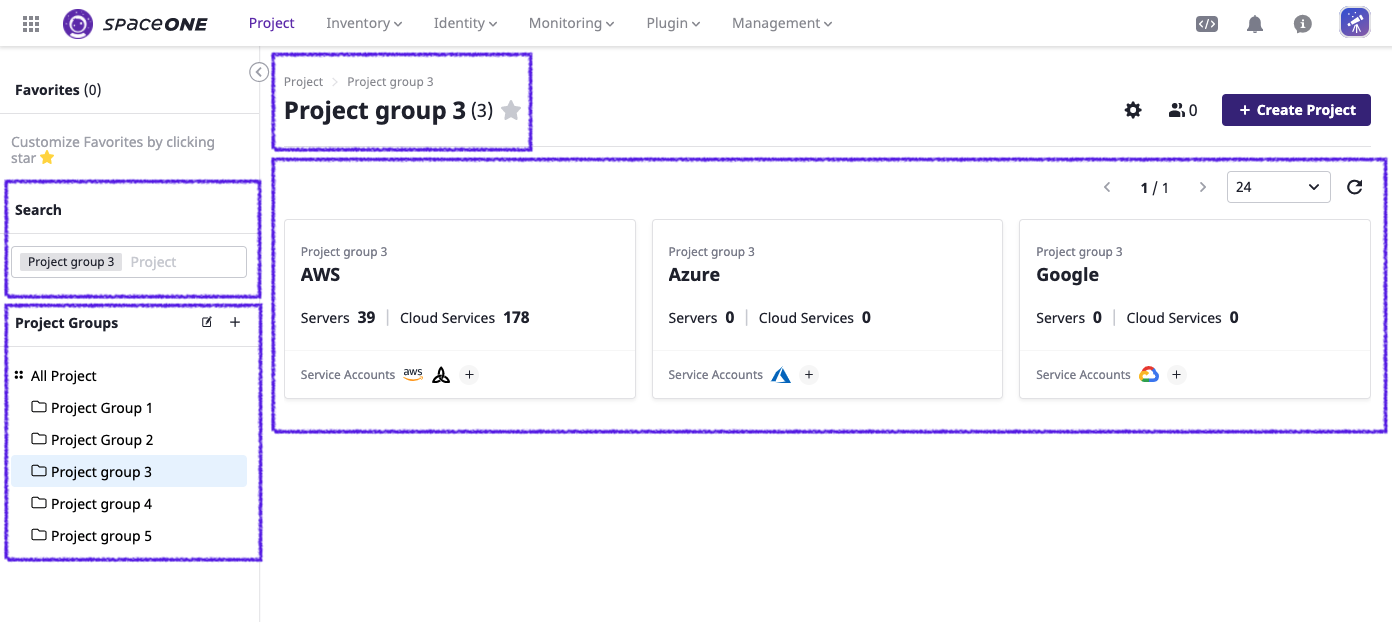
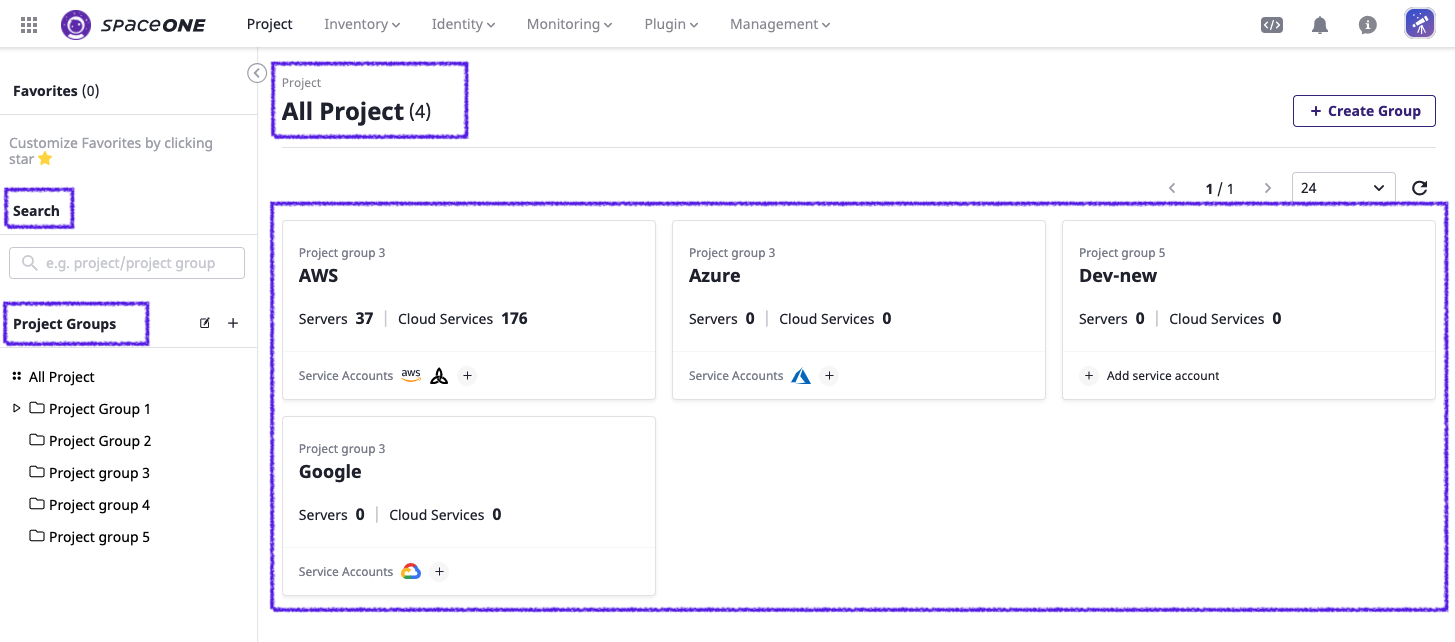
UserGuide_Project

diff --git a/content/en/docs/using_spaceone_console/user_guide/project/project_group_management.md b/content/en/docs/using_spaceone_console/user_guide/project/project_group_management.md
@@ -12,24 +12,26 @@ description: >
 
 ## Overview  
 
-You can manage **`Project groups`** and **`Projects`** through the **`Project`** menu on the top of the page.
+The **`Project`** menu, allows users to manage **`Project groups`** and **`Projects`**.
 
-The Project page consists **`Project Group`** management, and **`Project`**  management as shown below.
+The Project page consists **`Project Group Management`** and **`Project Management`** as shown below.
 
-It allows your company users to participate in projects, and manage authorization through roles in projects.  
+It allows company users to participate in projects, and manage authorization through roles in projects.  
+
+<br/>
+
+When you enter the first page of **`Project`**, you can see the entire project list aka the **`All Project`**.
+
+<br/>
 
 ![Project Management page Overview](/docs/using_spaceone_console/user_guide/project/project_group_management_img/pmg_01.png)
 
-
-When you enter the first page of **`Project`**, you can see the entire project list.
-
-![](/docs/using_spaceone_console/user_guide/project/project_group_management_img/pmg_02.png)
 
 <br/>
 
 ## Project Group Management
 
-The search bar on the left allows you to search and move through **`Project Groups / Projects`** easily.
+The search bar on the left allows you to search and move through **`Project Groups / Projects`**.
 
 The search field, helps you easily search / create / edit the **`Project Group Tree`**.
 
@@ -39,14 +41,19 @@ The search field, helps you easily search / create / edit the **`Project Group T
 
 ### View Project Group
 
-**`All Project`** shows the list of all projects at once. You can also select a target project to navigate to the **`Project Dashboard`**.
+**`All Project`** shows the list of all projects at once. 
+
+You can also select a target project to navigate to the **`Project Dashboard`**.
 
 ![Project Group &amp;gt; All Project](/docs/using_spaceone_console/user_guide/project/project_group_management_img/pmg_04.png)
 
 
-When you select each **`Project group`**, you can view the project list that belongs to the project group.
+When you select a **`Project group`**, you can see all the projects that belong to the group at once.
 
 ![Project Group&#xC744; &#xC120;&#xD0DD;&#xD55C; &#xACBD;&#xC6B0;](/docs/using_spaceone_console/user_guide/project/project_group_management_img/pmg_05.png)
+
+<br/>
+
 
 ### Create Project Group
 
@@ -58,19 +65,24 @@ You can create **`Project Groups`** through the **`Create`** button.
 
 **`Project Groups`** can have hierarchical relationships.  
 
-If you want to create a **`Sub Project Group`** under a parent **`Project Group`**, select as follows: 
+If you want to create a **`Sub Project Group`** under a parent **`Project Group`**, 
+
+click the **`+`** button like the following image : 
 
 ![Sub Project Group &#xC785;&#xB825; &#xD654;&#xBA74;](/docs/using_spaceone_console/user_guide/project/project_group_management_img/pmg_08.png)  
 
+<br/>
+
+
 ### Edit / Delete Project Group
 
-If you want to edit or delete the Project group, Click the  **`⚙`** button at the top right corner of the page.
+If you want to edit / delete **Project Groups**, Click the  **`⚙`** button at the top right corner of the page.
 
 ![Project Group &#xBCC0;&#xACBD;/&#xC0AD;&#xC81C;](/docs/using_spaceone_console/user_guide/project/project_group_management_img/pmg_09.png)  
 
 ![Update Project Group](/docs/using_spaceone_console/user_guide/project/project_group_management_img/pmg_10.png)  
 
-To delete a project group, you must delete all of the projects in the target group in advance.
+To delete a **Project Group**, you must delete all of the projects that are included in the target group in advance.
 
 ![Delete Project Group](/docs/using_spaceone_console/user_guide/project/project_group_management_img/pmg_11.png)  
 
@@ -78,20 +90,23 @@ To delete a project group, you must delete all of the projects in the target gro
 
 ## View Project 
 
-To see details of the project, select the project group.
+To see a summary of the projects included in a group, select a **Project Group**.
 
 ![Project List](/docs/using_spaceone_console/user_guide/project/project_group_management_img/pmg_12.png)  
 
 
-You can see a brief summary on how many **`Server / Cloud services`** each project has. You can also check your Cloud **`Service Account Type`**. 
+You can see a brief summary on how many **`Servers / Cloud services`** each project has. 
+
+You can also check your Cloud **`Service Account Type`**. 
 
 ![](/docs/using_spaceone_console/user_guide/project/project_group_management_img/pmg_13.png)  
 
 <br/>
 
+
 ## Search Project Group 
 
-The **`Search Bar`** helps you to move quickly through **`Project Groups / Projects.`**
+The **`Search Bar`** helps you move quickly through **`Project Groups / Projects.`**
 
 ![Project Search Bar](/docs/using_spaceone_console/user_guide/project/project_group_management_img/pmg_14.png)  
 

diff --git a/content/en/docs/using_spaceone_console/user_guide/project/project_management.md b/content/en/docs/using_spaceone_console/user_guide/project/project_management.md
@@ -15,17 +15,14 @@ description: >
 The **`Project`** page allows you the following features:
 
 * **View and edit projects.** 
-* **View project details** : View Summary, Member, Alert, Notifications, Maintenance Window, and Tags.
-* **Project Dashboard** : View overall usage of projects.
+* **View project details** 
+    * View Summary, Member, Alert, Notifications, Maintenance Window, and Tags.
+* **Project Dashboard** 
+    * View overall usage of projects.
+    Users can check usage by resource classifications. Click on each classification icon to see the detailed informations.
+
 
 ![Project Management Overview](/docs/using_spaceone_console/user_guide/project/project_management_img/pm_01.png)
-
-<br/>
-
-* **Usage by resource classification**
-: You can check cloud resources by classification. Click on each icon to see the detailed information page.
-
-![](/docs/using_spaceone_console/user_guide/project/project_management_img/pm_02.png)
 
 <br/>
 
@@ -57,7 +54,7 @@ You can easily check **`Billing Trends`**. Click on each service names to see de
 
 ### Personal Health Dashboard
 
-You can check **`Open Issues`** **`Scheduled Changes`** and **`Other Notifications`** on the **`Personal Health Dashboard`** .
+You can check **`Open Issues`**, **`Scheduled Changes`** and **`Other Notifications`** on the **`Personal Health Dashboard`** .
 
 ![](/docs/using_spaceone_console/user_guide/project/project_management_img/pm_04.png)
 
@@ -65,7 +62,7 @@ You can check **`Open Issues`** **`Scheduled Changes`** and **`Other Notificatio
 
 ### Service Accounts
 
-You can check resource usages from **`Service Account`** within the project. You can also check the amount of **`Credential`** registered.
+You can check resource usages from **`Service Accounts`** within the project. You can also check the amount of resources registered.
 
 ![](/docs/using_spaceone_console/user_guide/project/project_management_img/pm_05.png)
 
@@ -73,7 +70,9 @@ You can check resource usages from **`Service Account`** within the project. You
 
 ### Daily Updates
 
-**`Daily update`** shows the history of changes in your cloud resources so far. Click on each update to go to the detailed status page.
+**`Daily updates`** shows the history of changes in your cloud resources. 
+
+Click on each update to go to the detailed status page.
 
 ![](/docs/using_spaceone_console/user_guide/project/project_management_img/pm_06.png)
 
@@ -81,7 +80,9 @@ You can check resource usages from **`Service Account`** within the project. You
 
 ### Cloud services
 
-You can check the major services from the **`Cloud Service`** . To see further details you can click on each services or **more >** .
+You can check the major services from the **`Cloud Services`** . 
+
+To see further details you can click on each services or **more >** .
 
 ![](/docs/using_spaceone_console/user_guide/project/project_management_img/pm_07.png)
 
@@ -97,7 +98,9 @@ You can easily check Advises on **`Cost Optimization`** , **`Performance`** , **
 
 ## Member
 
-**`Add`** or **`Delete`** users who can view and manage the project. To do so, the users should be registered as a **`Project Admin`** in advance.
+**`Add`** or **`Delete`** users who can view and manage the project. 
+
+To do so, the users should be registered as a **`Project Admin`** in advance.
 
 ![Project Member &#xAD00;&#xB9AC;&#xD654;&#xBA74;](/docs/using_spaceone_console/user_guide/project/project_management_img/pm_11.png)
 
